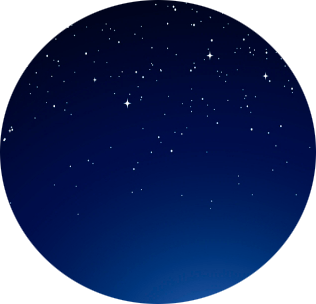
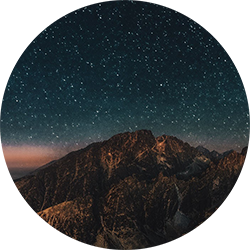
Adicionado conteúdo e ajustes

diff --git a/Js/js.js b/Js/js.js
@@ -1,7 +1,21 @@
 function carregar() {
-    var msg = document.getElementById('msg')
-    var img = document.getElementById('imagem')
-    var data = new Date()
-    var hora = data.getHours()
-    msg.innerHTML = `Agora são ${hora} horas.`
+    const msg = document.getElementById('msg')
+    const img = document.getElementById('imagem')
+    const data = new Date()
+    const hora = data.getHours()
+    if (hora >= 0 && hora < 12) {
+        // Se determinada hora for maior ou igual a 0 e(&&)
+        // determinada hora for menor que 12 então é bom dia
+        img.src = 'img/manha.png'
+        document.body.style.background = '#feca52'
+        msg.innerHTML = `Agora são ${hora} horas, Bom dia!`     
+    } else if (hora >= 12 && hora <= 18) {
+        img.src = 'img/tarde.png'
+        document.body.style.background = '#cf958a'
+        msg.innerHTML = `Agora são ${hora} horas, Boa tarde!`
+    } else {
+        img.src = 'img/noite.png'
+        document.body.style.background = '#122027'
+        msg.innerHTML = `Agora são ${hora} horas, Boa noite!`
+    }
 }

diff --git a/ex01.html b/ex01.html
@@ -12,10 +12,10 @@
         <h1>Hora do Dia</h1>
     </header>
     <section>
-        <div id="msg">
+        <div id="msg"></div>
         </div>
         <div id="foto">
-            <img id="imagem" src="./img/manhã.png" alt="">
+            <img id="imagem" src="./img/manha.png" alt="foto do dia">
         </div>
     </section>
     <footer>

diff --git a/css/style.css b/css/style.css
@@ -17,6 +17,11 @@ section {
     box-shadow: 3px 3px 10px rgb(31, 29, 29);
 }
 
+div {
+    text-align: center;
+    padding: 10px;
+}
+
 footer {
     color: white;
     text-align: center;
